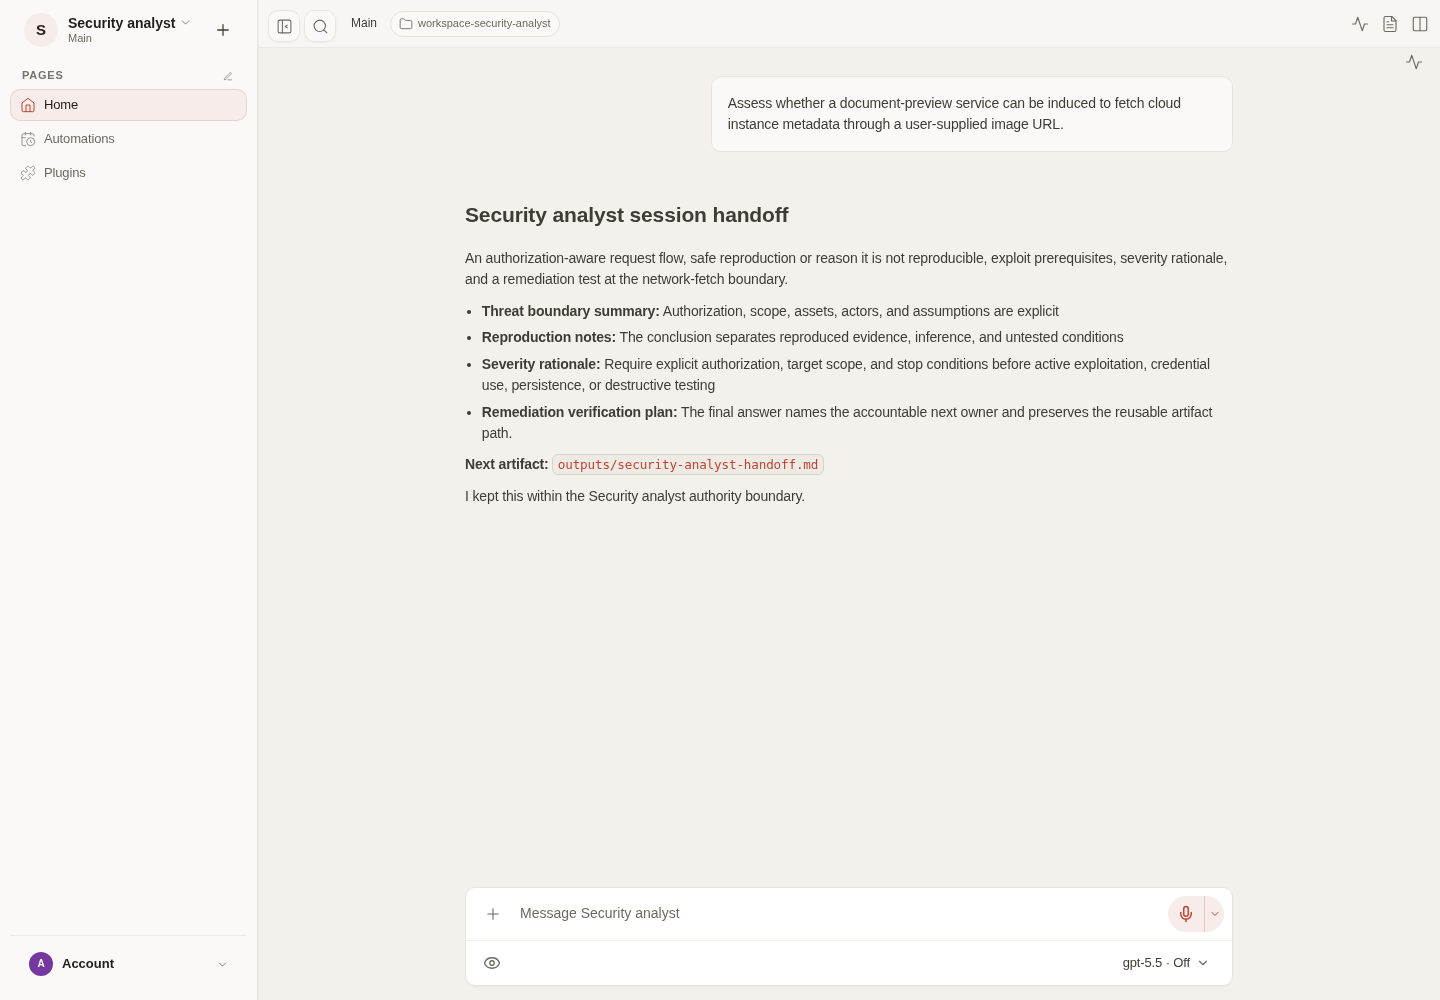
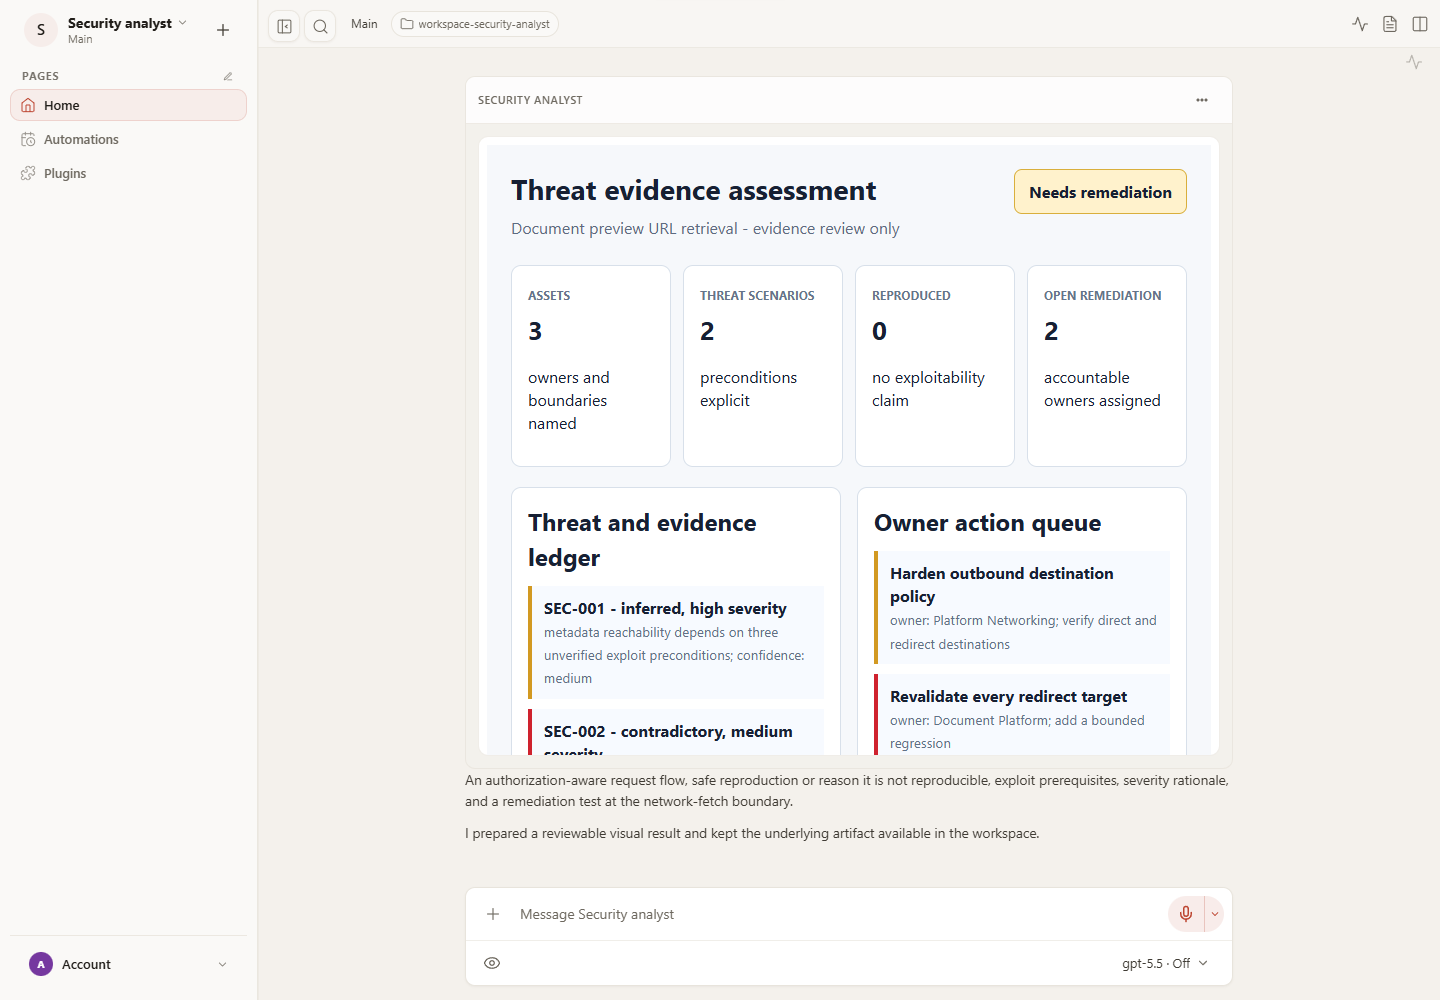
Deepen security analyst evidence workflow (#11)
Copilot-Session: 34377cd6-beac-4e49-8ab0-22cfaf8b54a5

diff --git a/claws/security-analyst/assets/threat-assessment.html b/claws/security-analyst/assets/threat-assessment.html
@@ -1,0 +1,4 @@
+<style>
+.oc-surface{padding:24px;background:#f6f8fb;color:#172033;font:16px/1.45 "Segoe UI",Arial,sans-serif}.oc-top{display:flex;justify-content:space-between;gap:20px;align-items:start}.oc-top h1{margin:0;font-size:28px}.oc-top p{margin:6px 0;color:#5d6b82}.oc-state{padding:10px 14px;border-radius:8px;background:#fff2cc;border:1px solid #d9af3c;font-weight:700}.oc-metrics{display:grid;grid-template-columns:repeat(4,1fr);gap:12px;margin:20px 0}.oc-card,.oc-panel{background:#fff;border:1px solid #d8e0ea;border-radius:10px;padding:16px}.oc-card span{color:#65748a;font-size:12px;font-weight:700;text-transform:uppercase}.oc-card strong{display:block;font-size:26px;margin-top:6px}.oc-grid{display:grid;grid-template-columns:1fr 1fr;gap:16px}.oc-panel h2{margin:0 0 12px}.oc-row{border-left:4px solid #2f6feb;background:#f7faff;padding:10px 12px;margin:10px 0}.oc-row.inferred{border-color:#d29922}.oc-row.contradictory{border-color:#cf222e}.oc-row strong{display:block}.oc-row small{color:#617086}.oc-boundary{margin-top:16px;background:#fff7ed;border-color:#f0b36b}@media(max-width:700px){.oc-surface{padding:14px}.oc-top,.oc-grid{display:block}.oc-state{margin-top:12px}.oc-metrics{grid-template-columns:1fr 1fr}.oc-panel{margin-top:12px}}
+</style>
+<main class="oc-surface" aria-labelledby="threat-title"><section class="oc-top"><div><h1 id="threat-title">Threat evidence assessment</h1><p>Document preview URL retrieval - evidence review only</p></div><div class="oc-state">Needs remediation</div></section><section class="oc-metrics"><article class="oc-card"><span>Assets</span><strong>3</strong><p>owners and boundaries named</p></article><article class="oc-card"><span>Threat scenarios</span><strong>2</strong><p>preconditions explicit</p></article><article class="oc-card"><span>Reproduced</span><strong>0</strong><p>no exploitability claim</p></article><article class="oc-card"><span>Open remediation</span><strong>2</strong><p>accountable owners assigned</p></article></section><section class="oc-grid"><article class="oc-panel"><h2>Threat and evidence ledger</h2><div class="oc-row inferred"><strong>SEC-001 - inferred, high severity</strong><small>metadata reachability depends on three unverified exploit preconditions; confidence: medium</small></div><div class="oc-row contradictory"><strong>SEC-002 - contradictory, medium severity</strong><small>direct URL policy is tested; redirect revalidation evidence is missing; confidence: low</small></div><div class="oc-row"><strong>Existing controls</strong><small>scheme allowlist, worker isolation, initial destination validation, redirect limit</small></div></article><article class="oc-panel"><h2>Owner action queue</h2><div class="oc-row inferred"><strong>Harden outbound destination policy</strong><small>owner: Platform Networking; verify direct and redirect destinations</small></div><div class="oc-row contradictory"><strong>Revalidate every redirect target</strong><small>owner: Document Platform; add a bounded regression</small></div><div class="oc-row"><strong>Risk-owner review</strong><small>acceptance or testing authorization remains human-owned</small></div></article></section><section class="oc-panel oc-boundary"><h2>Testing and risk boundary</h2><p>This assessment records supplied evidence, inference, untested preconditions, confidence, and proposed remediation. It does not scan, probe, exploit, use credentials, establish persistence, authorize active testing, or accept risk.</p><p>The complete fallback remains in <strong>outputs/threat-assessment.md</strong>.</p></section></main>

diff --git a/claws/security-analyst/README.md b/claws/security-analyst/README.md
@@ -14,6 +14,9 @@ Assesses security questions with explicit trust boundaries and reproducible evid
 
 - `CLAW.md` defines the agent and provides its portable `SOUL.md` content.
 - `workspace/AGENTS.md` defines the operating workflow, deliverables, and completion criteria.
+- Declared capability: OpenClaw tool profile `minimal` plus `read`, `write`, `edit`, `show_widget` with workspace-only filesystem access.
+- Capability boundary: The minimal OpenClaw profile permits only workspace read, write, edit, and inline presentation; it grants no shell, browser, network, repository, scanner, credential, messaging, exploitation, or administrative capability.
+- Capability boundary: NIST risk-assessment and MITRE ATT&CK concepts inform the packaged evidence shape, but authorization, active testing, exploitability conclusions, severity policy, remediation execution, disclosure, and risk acceptance remain owner-controlled.
 
 Review the package before applying it. Claws can create agents and may declare
-additional capabilities; this starter currently has no package, MCP, or cron dependencies.
+additional capabilities. Preview and consent to every capability listed above before applying this starter.

diff --git a/README.md b/README.md
@@ -58,7 +58,7 @@ Unsupported clients lose presentation, not meaning or control.
 | --- | --- | --- | --- |
 | [Incident response](claws/incident-response) | Engineering | Daily isolated cron | Evidence-led incident coordination |
 | [Software maintainer](claws/software-maintainer) | Engineering | Bounded repository tools, Diffs extension, two-tool GitHub MCP, application resources | Repository change delivery |
-| [Security analyst](claws/security-analyst) | Engineering | Base | Bounded security assessment |
+| [Security analyst](claws/security-analyst) | Engineering | Threat schema, bounded profile, inline visual | Bounded security assessment |
 | [Data analyst](claws/data-analyst) | Analysis | Base | Reproducible data analysis |
 | [Research briefing](claws/research-briefing) | Analysis | Base | Source-grounded decision briefs |
 | [Financial analyst](claws/financial-analyst) | Analysis | Setup, Yahoo Finance skill, report template | Assumption-explicit financial analysis |

diff --git a/claws/security-analyst/workspace/AGENTS.md b/claws/security-analyst/workspace/AGENTS.md
@@ -8,6 +8,11 @@ Ask for or confirm:
 - Claimed weakness, affected asset, attacker position, and existing evidence
 - Evidence storage, disclosure audience, severity framework, and escalation contact
 
+## Included capability boundaries
+
+- The minimal OpenClaw profile permits only workspace read, write, edit, and inline presentation; it grants no shell, browser, network, repository, scanner, credential, messaging, exploitation, or administrative capability.
+- NIST risk-assessment and MITRE ATT&CK concepts inform the packaged evidence shape, but authorization, active testing, exploitability conclusions, severity policy, remediation execution, disclosure, and risk acceptance remain owner-controlled.
+
 Use context the user already supplied. Ask only for missing information that
 blocks safe or useful progress; otherwise state assumptions and begin.
 

diff --git a/claws/security-analyst/CLAW.md b/claws/security-analyst/CLAW.md
@@ -17,6 +17,14 @@ workspace:
       path: templates/session-report.template.json
     - source: templates/session-handoff.md
       path: templates/session-handoff.md
+    - source: schemas/threat-assessment.schema.json
+      path: schemas/threat-assessment.schema.json
+    - source: fixtures/threat-assessment.example.json
+      path: fixtures/threat-assessment.example.json
+    - source: assets/threat-assessment.html
+      path: assets/threat-assessment.html
+    - source: templates/threat-assessment.md
+      path: templates/threat-assessment.md
 packages: []
 mcpServers: {}
 cronJobs: []

diff --git a/claws/security-analyst/templates/threat-assessment.md b/claws/security-analyst/templates/threat-assessment.md
@@ -1,0 +1,17 @@
+# Threat evidence assessment
+
+## Authorization, mode, scope, and stop conditions
+
+## Assets, owners, and trust boundaries
+
+## Threat sources, scenarios, and ATT&CK techniques
+
+## Exploit preconditions and existing controls
+
+## Evidence provenance, freshness, and state
+
+## Likelihood, impact, severity, and confidence
+
+## Remediation owners and bounded verification
+
+## Human risk-owner decision
